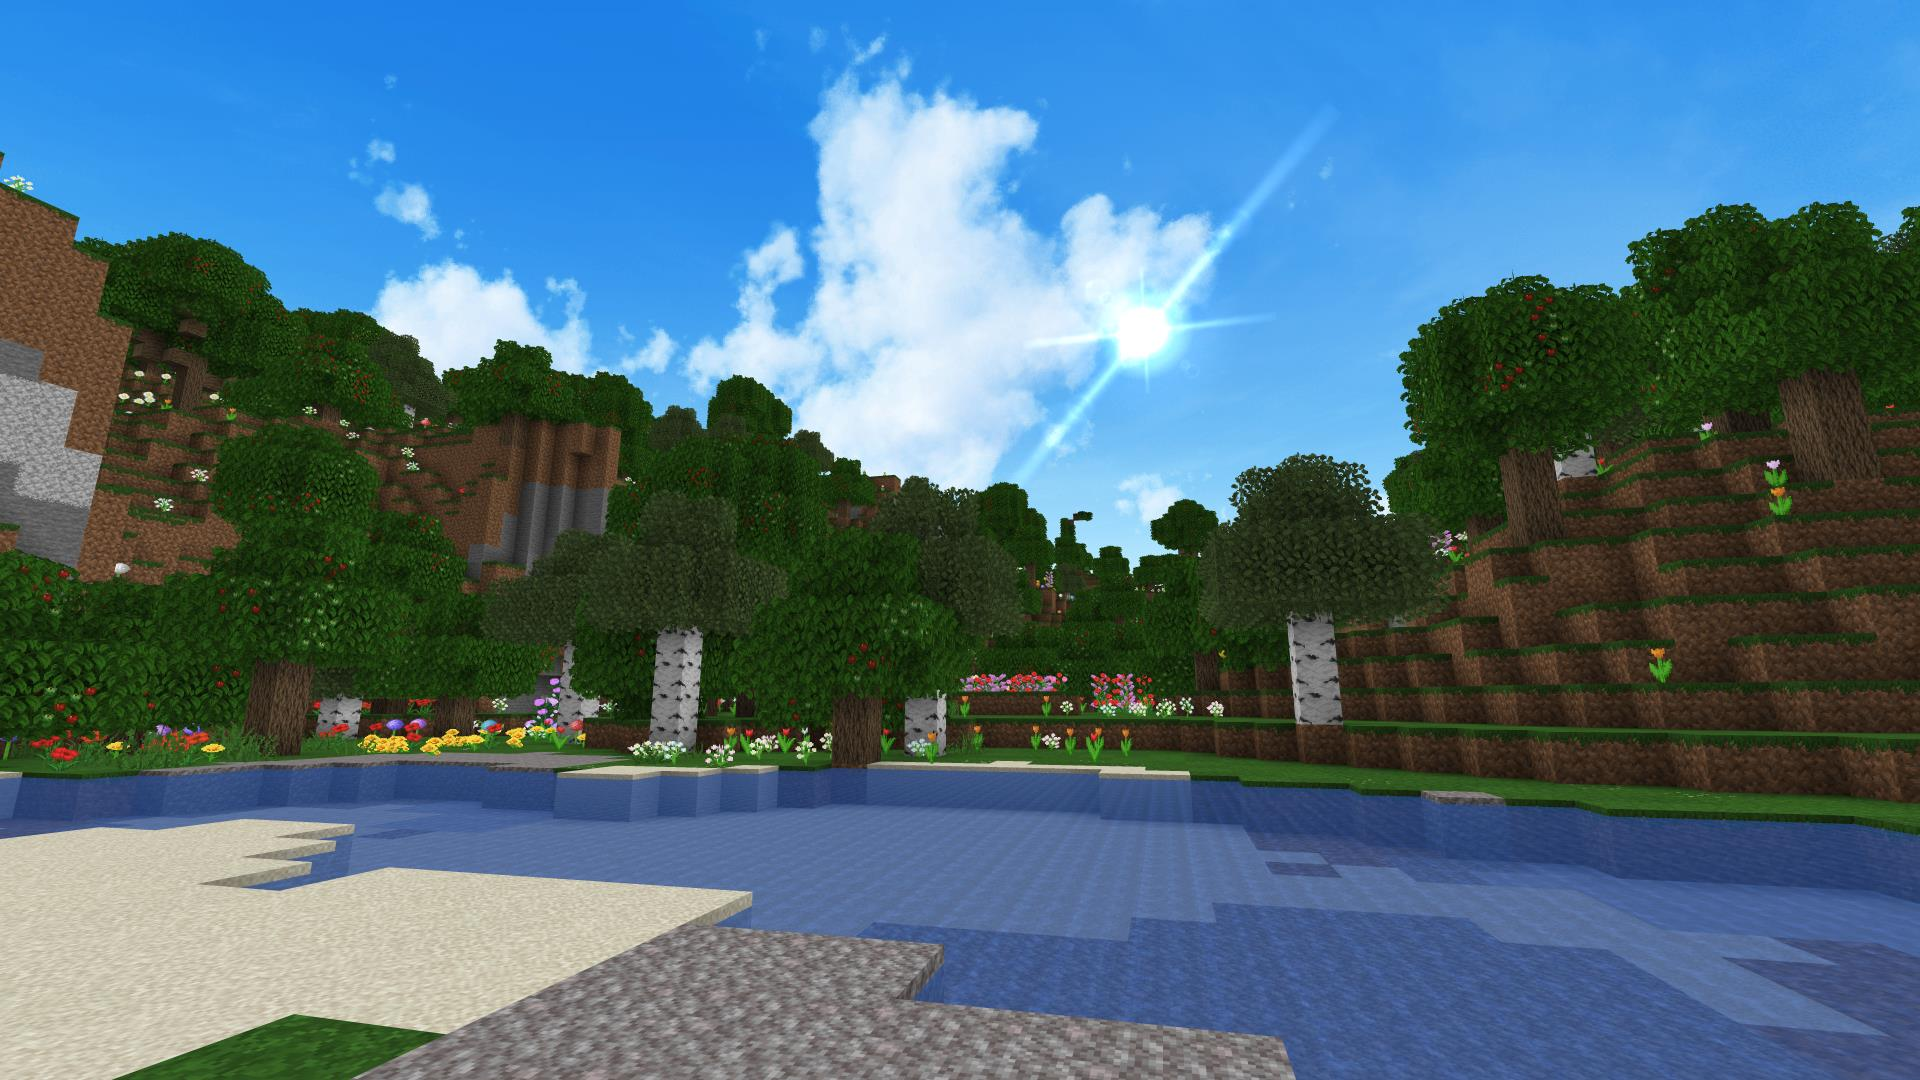
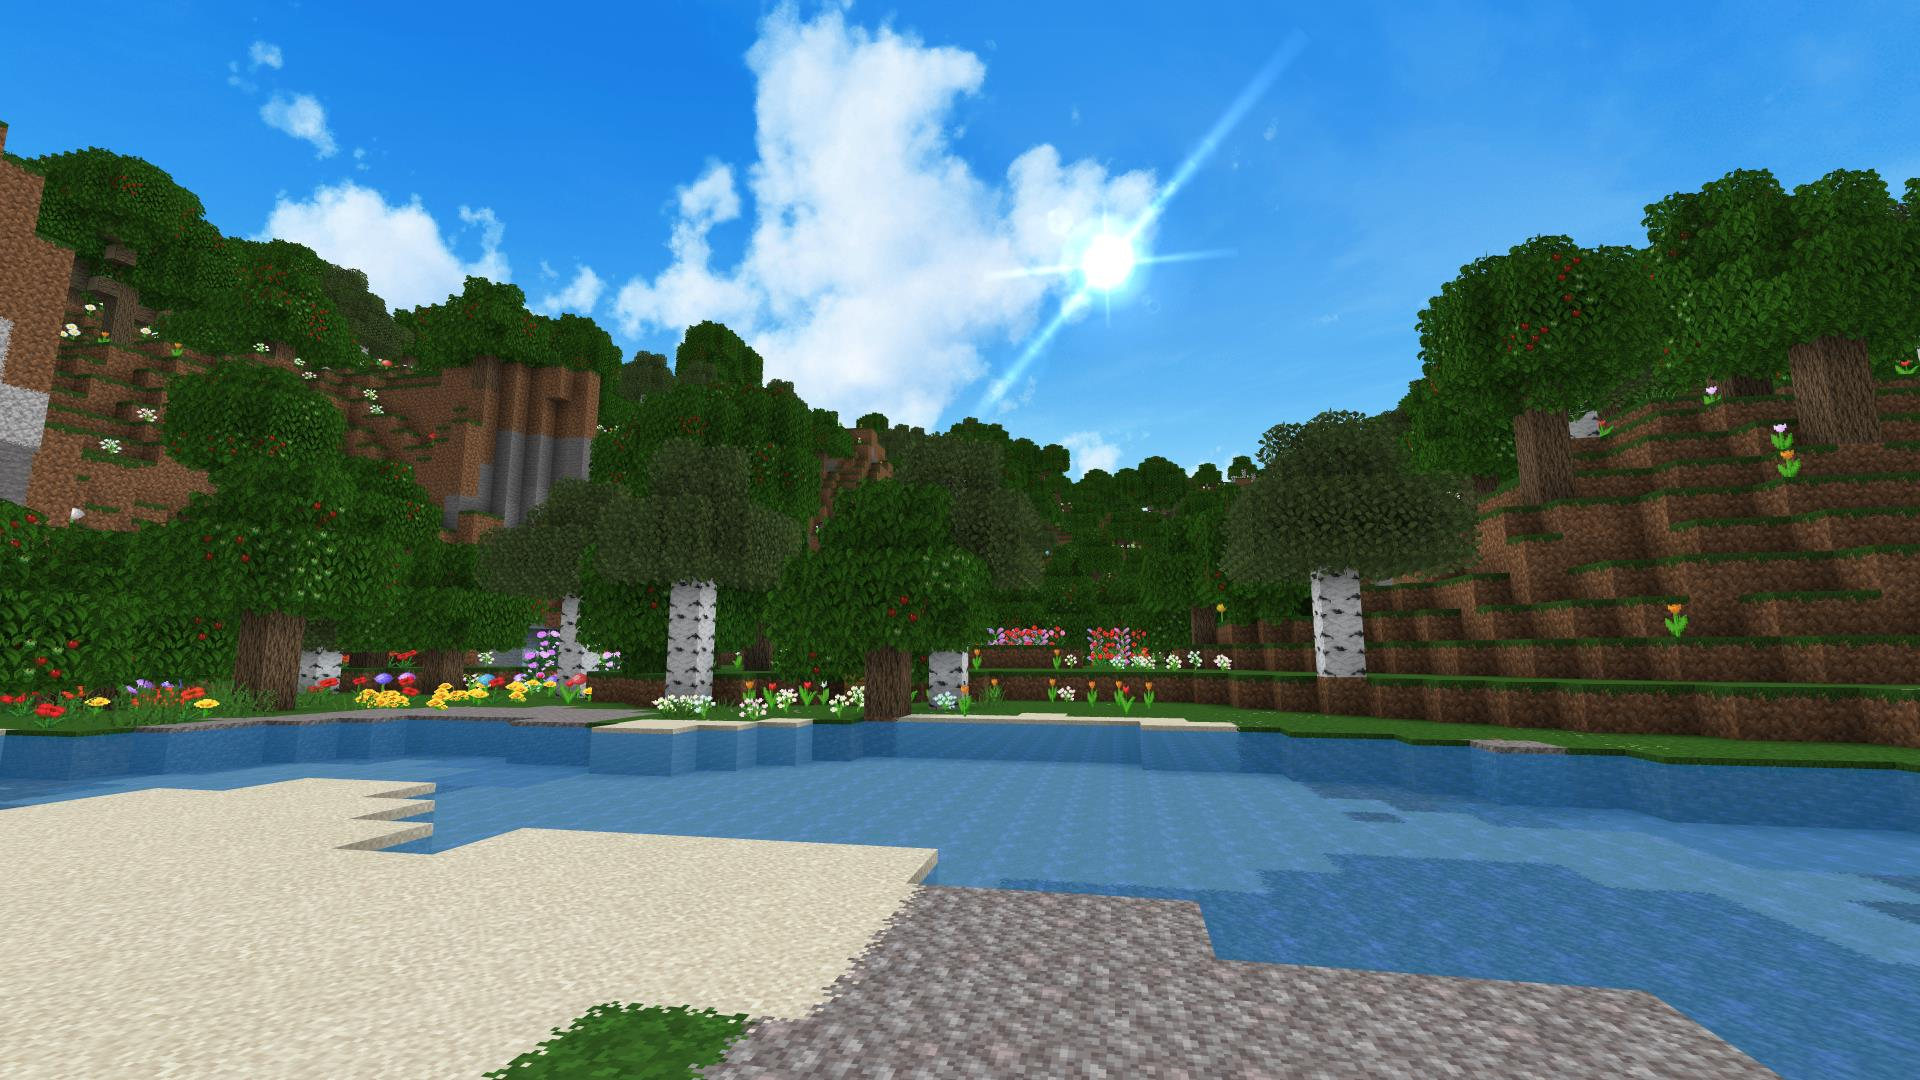
Change water color

diff --git a/COLORS.md b/COLORS.md
@@ -122,6 +122,9 @@ A list with the settings used to change the textures. The program used is [paint
 | stripped_spruce_log.png | -8 | 75% | -25 | - | - |
 | stripped_spruce_log_top.png | -8 | 75% | -25 | - | - |
 | sugar_cane.png | +8 | 116% | -8 | - | - |
+| water_flow.png (sepia) | +128 | 200% | ±0 | - | - |
+| water_overlay.png (sepia) | +128 | 200% | ±0 | - | - |
+| water_still.png (sepia) | +128 | 200% | ±0 | - | - |
 
 ### Colormap
 | File | Hue | Saturation | Brightness | Second Brightness | Contrast |
